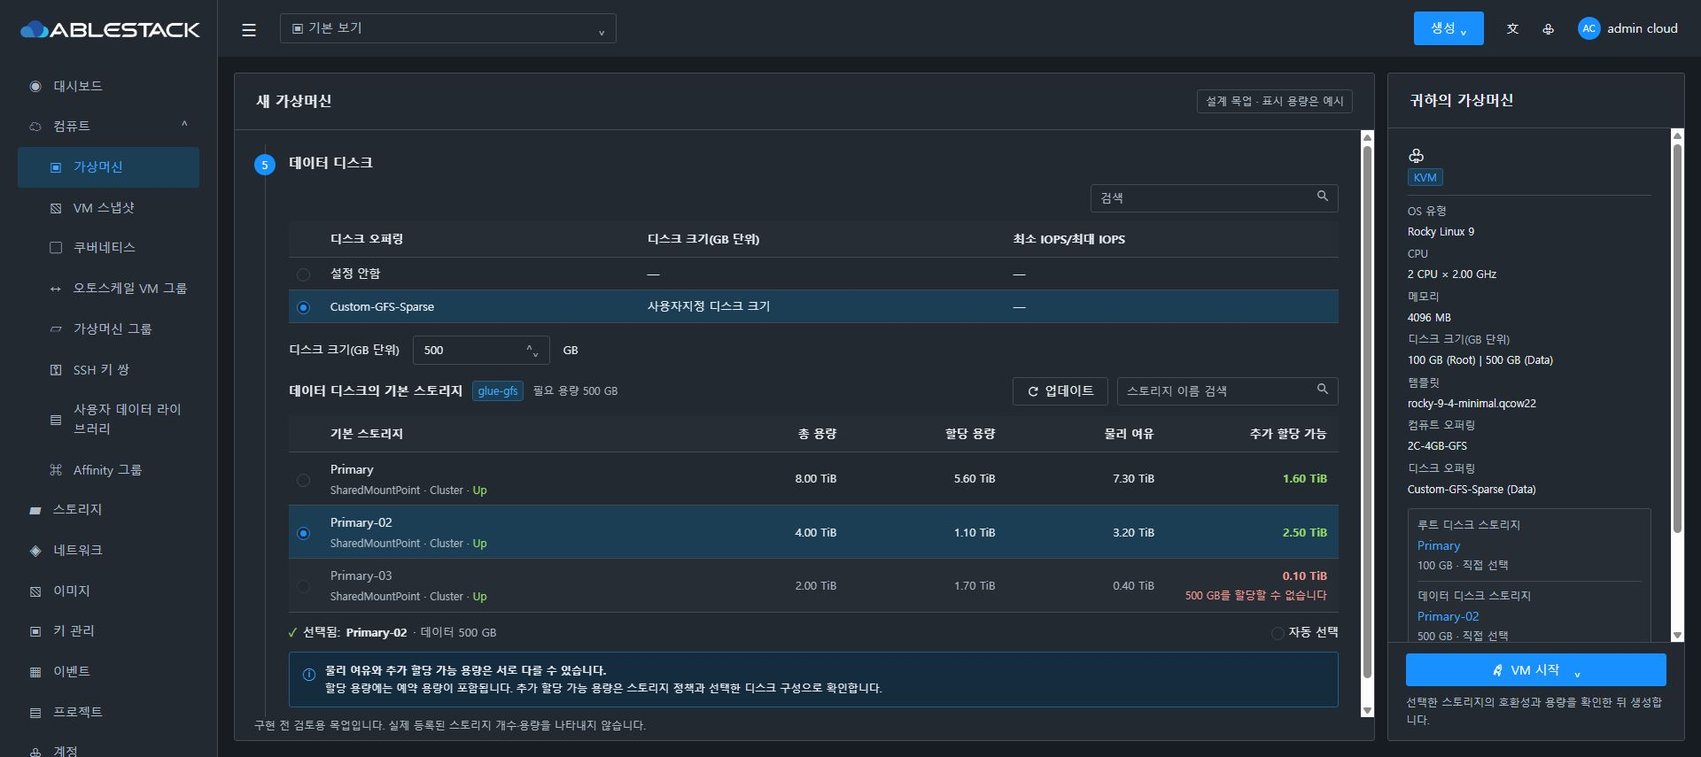
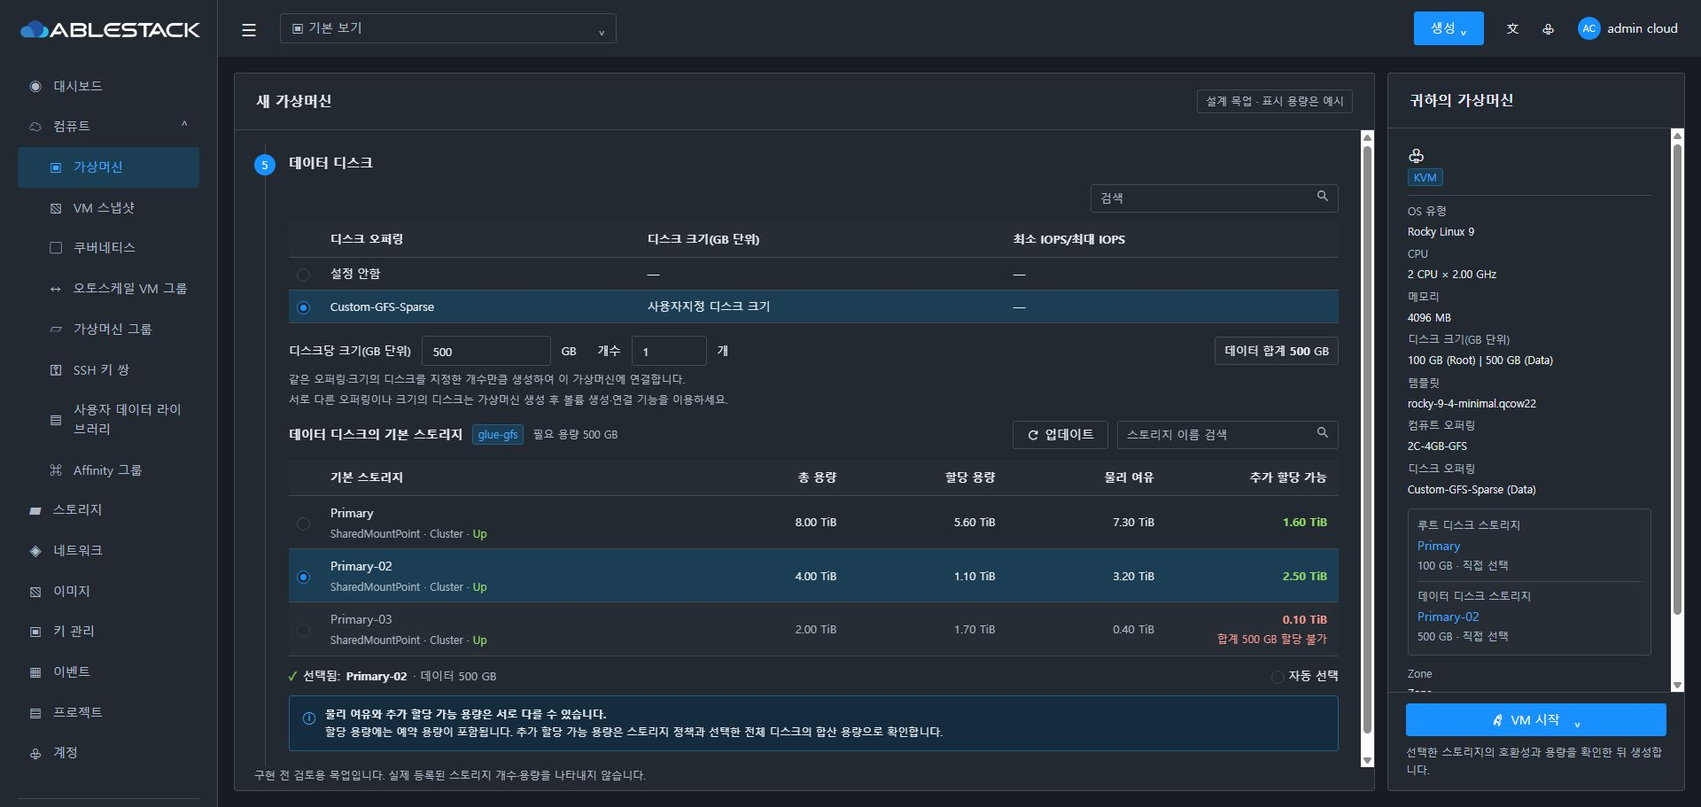
문서: 데이터 디스크 개수와 고정·가변 용량 목업 보완

diff --git a/docs/design/vm-create-storage-selection-20261002/mockup.html b/docs/design/vm-create-storage-selection-20261002/mockup.html
@@ -76,6 +76,24 @@ body.rootmanual .override-manual{display:block}
 body.rootmanual .override-default{display:none}
 body.rootmanual .root-override .switch{background:#1890ff}
 body.rootmanual .root-override .switch:before{left:18px}
+
+.data-batch-controls{gap:12px;flex-wrap:wrap;margin-bottom:6px}
+.data-number{width:146px;height:34px;background:var(--panel);border:1px solid var(--border);border-radius:3px;padding:5px 12px;color:var(--text)}
+.count-number{width:85px}
+.data-batch-controls label[for="data-disk-count"]{margin-left:12px}
+.data-total-badge{margin-left:auto;color:var(--text);background:var(--thead);border:1px solid var(--border);border-radius:3px;padding:5px 10px}
+.batch-help{margin:5px 0 12px}.storage-title .data-count-formula{margin-left:5px}
+.batch-capacity-row.can-fit .availability{color:var(--good)}.batch-capacity-row.can-fit .radio{opacity:1}
+
+.fixed-data-tag{display:none}
+body.fixedoffering .fixed-data-tag{display:inline-block}
+body.fixedoffering #data-disk-size{color:var(--muted);background:var(--thead);cursor:not-allowed}
+body.fixedoffering #data-disk-size::-webkit-inner-spin-button{display:none}
+.fixed-size-help{display:none}body.fixedoffering .fixed-size-help{display:block;margin-top:3px}
+.separate-volume-help{margin:4px 0 12px}.batch-help{margin-bottom:4px}
+body.fixedoffering .data-batch-controls{gap:9px}
+
+body.fixedoffering .pool-table td{padding-top:6px;padding-bottom:6px}
 </style></head><body>
 <svg style="position:absolute;width:0;height:0" aria-hidden="true"><defs>
 <symbol id="reload" viewBox="0 0 16 16"><path d="M13.3 5.7A5.4 5.4 0 1 0 13.2 11M13.4 2.7v3.5h-3.5"/></symbol>
@@ -114,16 +132,22 @@ body.rootmanual .root-override .switch:before{left:18px}
 <div class="offerbar"><div class="search">검색 <svg class="ico"><use href="#search"/></svg></div></div>
 <table><thead><tr><th class="select-col"></th><th>디스크 오퍼링</th><th>디스크 크기(GB 단위)</th><th>최소 IOPS/최대 IOPS</th></tr></thead><tbody>
 <tr><td class="select-col"><span class="radio"></span></td><td>설정 안함</td><td>—</td><td>—</td></tr>
-<tr class="selected"><td class="select-col"><span class="radio checked"></span></td><td>Custom-GFS-Sparse</td><td>사용자지정 디스크 크기</td><td>—</td></tr></tbody></table>
-<div class="sizebox"><span>디스크 크기(GB 단위)</span><span class="number-field">500 <span class="dim">⌃⌄</span></span><span>GB</span></div>
-<div class="storage-title"><strong>데이터 디스크의 기본 스토리지</strong><span class="tag">glue-gfs</span><span class="require">필요 용량 500 GB</span><div class="tools"><button class="plain-button update"><svg class="ico"><use href="#reload"/></svg>업데이트</button><div class="search">스토리지 이름 검색 <svg class="ico"><use href="#search"/></svg></div></div></div>
+<tr class="selected"><td class="select-col"><span class="radio checked"></span></td><td><span class="data-offering-name">Custom-GFS-Sparse</span></td><td><span class="data-offering-size">사용자지정 디스크 크기</span></td><td>—</td></tr></tbody></table>
+<div class="sizebox data-batch-controls">
+<label for="data-disk-size">디스크당 크기(GB 단위)</label><input id="data-disk-size" class="data-number" type="number" min="1" step="1" value="500"><span>GB</span><span class="tag fixed-data-tag">고정 용량</span>
+<label for="data-disk-count">개수</label><input id="data-disk-count" class="data-number count-number" type="number" min="1" step="1" value="1"><span>개</span>
+<span class="data-total-badge">데이터 합계 <strong class="data-total-value">500</strong> GB</span>
+</div>
+<p class="hint batch-help">같은 오퍼링·크기의 디스크를 지정한 개수만큼 생성하여 이 가상머신에 연결합니다.<span class="fixed-size-help"></span></p>
+<p class="hint separate-volume-help">서로 다른 오퍼링이나 크기의 디스크는 가상머신 생성 후 볼륨 생성·연결 기능을 이용하세요.</p>
+<div class="storage-title"><strong>데이터 디스크의 기본 스토리지</strong><span class="tag">glue-gfs</span><span class="require">필요 용량 <span class="data-total-value">500</span> GB<span class="data-count-formula"></span></span><div class="tools"><button class="plain-button update"><svg class="ico"><use href="#reload"/></svg>업데이트</button><div class="search">스토리지 이름 검색 <svg class="ico"><use href="#search"/></svg></div></div></div>
 <table class="pool-table"><thead><tr><th class="select-col"></th><th>기본 스토리지</th><th>총 용량</th><th>할당 용량</th><th>물리 여유</th><th>추가 할당 가능</th></tr></thead><tbody>
 <tr><td class="select-col"><span class="radio"></span></td><td><span class="pool-name">Primary</span><span class="subline">SharedMountPoint · Cluster · <span class="status">Up</span></span></td><td>8.00 TiB</td><td>5.60 TiB</td><td>7.30 TiB</td><td><span class="availability">1.60 TiB</span></td></tr>
 <tr class="selected"><td class="select-col"><span class="radio checked"></span></td><td><span class="pool-name">Primary-02</span><span class="subline">SharedMountPoint · Cluster · <span class="status">Up</span></span></td><td>4.00 TiB</td><td>1.10 TiB</td><td>3.20 TiB</td><td><span class="availability">2.50 TiB</span></td></tr>
-<tr class="disabled-row"><td class="select-col"><span class="radio"></span></td><td><span class="pool-name">Primary-03</span><span class="subline">SharedMountPoint · Cluster · <span class="status">Up</span></span></td><td>2.00 TiB</td><td>1.70 TiB</td><td>0.40 TiB</td><td><span class="availability">0.10 TiB</span><span class="warn">500 GB를 할당할 수 없습니다</span></td></tr>
+<tr class="disabled-row batch-capacity-row"><td class="select-col"><span class="radio"></span></td><td><span class="pool-name">Primary-03</span><span class="subline">SharedMountPoint · Cluster · <span class="status">Up</span></span></td><td>2.00 TiB</td><td>1.70 TiB</td><td>0.40 TiB</td><td><span class="availability">0.10 TiB</span><span class="warn batch-capacity-warning">500 GB를 할당할 수 없습니다</span></td></tr>
 </tbody></table>
-<div class="summary-choice"><span class="check">✓</span> 선택됨: <strong>Primary-02</strong><span class="dim">· 데이터 500 GB</span><span style="margin-left:auto"><span class="radio"></span> 자동 선택</span></div>
-<div class="capacity-help"><span class="sym">ⓘ</span><span><b>물리 여유와 추가 할당 가능 용량은 서로 다를 수 있습니다.</b><br>할당 용량에는 예약 용량이 포함됩니다. 추가 할당 가능 용량은 스토리지 정책과 선택한 디스크 구성으로 확인합니다.</span></div>
+<div class="summary-choice"><span class="check">✓</span> 선택됨: <strong>Primary-02</strong><span class="dim">· 데이터 <span class="data-configuration">500 GB</span></span><span style="margin-left:auto"><span class="radio"></span> 자동 선택</span></div>
+<div class="capacity-help"><span class="sym">ⓘ</span><span><b>물리 여유와 추가 할당 가능 용량은 서로 다를 수 있습니다.</b><br>할당 용량에는 예약 용량이 포함됩니다. 추가 할당 가능 용량은 스토리지 정책과 선택한 전체 디스크의 합산 용량으로 확인합니다.</span></div>
 </section>
 <div class="collapsed"><span class="completed">6</span><strong>네트워크</strong><span class="short-val">ADMIN-L2-Network</span></div><div class="collapsed"><span class="completed">7</span><strong>SSH 키 쌍</strong><span class="short-val">설정 안함</span></div><div class="collapsed"><span class="completed">8</span><strong>확장 모드</strong></div><div class="collapsed"><span class="completed">9</span><strong>상세</strong><span class="short-val">VM 1개 · 생성 후 시작</span></div>
 </div>
@@ -136,8 +160,8 @@ body.rootmanual .root-override .switch:before{left:18px}
 </div><div class="capacity-help"><span class="sym">ⓘ</span><span>최종 생성 시 서버에서 선택한 UUID·오퍼링·배포 인프라·전체 디스크의 용량을 다시 검증합니다. 지정한 스토리지에 생성할 수 없으면 변경되지 않은 선택을 유지하고 원인을 표시합니다.</span></div></div>
 <div class="footer-note">구현 전 검토용 목업입니다. 실제 등록된 스토리지 개수·용량을 나타내지 않습니다.</div>
 </main><aside class="panel summary normal-block"><div class="panel-title">귀하의 가상머신</div><div class="summary-inner"><div class="os-icon">♧</div><span class="tag">KVM</span><hr>
-<div class="line"><span class="label">OS 유형</span><span class="val">Rocky Linux 9</span></div><div class="line"><span class="label">CPU</span><span class="val">2 CPU × 2.00 GHz</span></div><div class="line"><span class="label">메모리</span><span class="val">4096 MB</span></div><div class="line"><span class="label">디스크 크기(GB 단위)</span><span class="val"><span class="root-size-value">100</span> GB (Root) | 500 GB (Data)</span></div><div class="line"><span class="label">템플릿</span><span class="val">rocky-9-4-minimal.qcow22</span></div><div class="line"><span class="label">컴퓨트 오퍼링</span><span class="val">2C-4GB-GFS</span></div><div class="line"><span class="label">디스크 오퍼링</span><span class="val">Custom-GFS-Sparse (Data)</span></div>
-<div class="storage-box"><div class="entry"><span class="label">루트 디스크 스토리지</span><span class="name">Primary</span><span class="desc"><span class="root-size-value">100</span> GB · 직접 선택</span></div><div class="entry"><span class="label">데이터 디스크 스토리지</span><span class="name">Primary-02</span><span class="desc">500 GB · 직접 선택</span></div></div>
+<div class="line"><span class="label">OS 유형</span><span class="val">Rocky Linux 9</span></div><div class="line"><span class="label">CPU</span><span class="val">2 CPU × 2.00 GHz</span></div><div class="line"><span class="label">메모리</span><span class="val">4096 MB</span></div><div class="line"><span class="label">디스크 크기(GB 단위)</span><span class="val"><span class="root-size-value">100</span> GB (Root) | <span class="data-summary">500 GB (Data)</span></span></div><div class="line"><span class="label">템플릿</span><span class="val">rocky-9-4-minimal.qcow22</span></div><div class="line"><span class="label">컴퓨트 오퍼링</span><span class="val">2C-4GB-GFS</span></div><div class="line"><span class="label">디스크 오퍼링</span><span class="val"><span class="data-offering-name">Custom-GFS-Sparse</span> (Data)</span></div>
+<div class="storage-box"><div class="entry"><span class="label">루트 디스크 스토리지</span><span class="name">Primary</span><span class="desc"><span class="root-size-value">100</span> GB · 직접 선택</span></div><div class="entry"><span class="label">데이터 디스크 스토리지</span><span class="name">Primary-02</span><span class="desc"><span class="data-configuration">500 GB</span> · 직접 선택</span></div></div>
 <div class="line"><span class="label">Zone</span><span class="val">Zone</span></div><div class="line"><span class="label">부팅 유형 / 부팅 모드</span><span class="val">BIOS / LEGACY</span></div>
 </div><div class="summary-actions"><button class="blue-button start-button"><svg class="ico"><use href="#rocket"/></svg>VM 시작<span style="margin-left:8px">⌄</span></button><p class="summary-note">선택한 스토리지의 호환성과 용량을 확인한 뒤 생성합니다.</p>
 </div></aside></div></div></div>
@@ -147,4 +171,35 @@ const q=new URLSearchParams(location.search);const dark=q.get('theme')==='dark';
 const manualRoot=q.get('override')==='on';
 document.body.classList.toggle('rootmanual',manualRoot);
 document.querySelectorAll('.root-size-value').forEach(el=>el.textContent=manualRoot?'500':'100');
+
+const diskSizeInput=document.getElementById('data-disk-size');
+const diskCountInput=document.getElementById('data-disk-count');
+const batchExample=q.get('batch')==='on';
+const fixedOffering=q.get('offering')==='fixed';
+document.body.classList.toggle('fixedoffering',fixedOffering);
+diskSizeInput.value=fixedOffering?'200':batchExample?'100':'500';diskCountInput.value=fixedOffering?'4':batchExample?'10':'1';
+diskSizeInput.disabled=fixedOffering;
+document.querySelectorAll('.data-offering-name').forEach(el=>el.textContent=fixedOffering?'GFS-200GB-Fixed (예시)':'Custom-GFS-Sparse');
+document.querySelectorAll('.data-offering-size').forEach(el=>el.textContent=fixedOffering?'200 GB (고정)':'사용자지정 디스크 크기');
+document.querySelectorAll('.fixed-size-help').forEach(el=>el.textContent='용량은 오퍼링에 설정된 값입니다. 다른 용량이 필요하면 디스크 오퍼링을 변경하세요.');
+function updateDataDiskExample(){
+ const size=Number(diskSizeInput.value),count=Number(diskCountInput.value);
+ const valid=Number.isSafeInteger(size)&&size>0&&Number.isSafeInteger(count)&&count>0&&Number.isSafeInteger(size*count);
+ const fmt=n=>n.toLocaleString('en-US');
+ const total=valid?size*count:null;
+ const configuration=valid?(count>1?fmt(size)+' GB × '+fmt(count)+'개 · 합계 '+fmt(total)+' GB':fmt(size)+' GB'):'크기와 개수를 확인하세요';
+ document.querySelectorAll('.data-total-value').forEach(el=>el.textContent=valid?fmt(total):'—');
+ document.querySelectorAll('.data-configuration').forEach(el=>el.textContent=configuration);
+ document.querySelectorAll('.data-count-formula').forEach(el=>el.textContent=valid&&count>1?'('+fmt(size)+' GB × '+fmt(count)+'개)':'');
+ document.querySelectorAll('.data-summary').forEach(el=>el.textContent=valid?(count>1?fmt(size)+' GB × '+fmt(count)+'개 (Data) · 합계 '+fmt(total)+' GB':fmt(size)+' GB (Data)'):'크기와 개수를 확인하세요');
+ const blocked=!valid||total>102;
+ const capacityRow=document.querySelector('.batch-capacity-row');
+ capacityRow.classList.toggle('disabled-row',blocked);capacityRow.classList.toggle('can-fit',!blocked);
+ const warning=document.querySelector('.batch-capacity-warning');
+ warning.style.display=blocked?'block':'none';
+ warning.textContent=valid?'합계 '+fmt(total)+' GB 할당 불가':'크기와 개수를 확인하세요';
+}
+diskSizeInput.addEventListener('input',updateDataDiskExample);
+diskCountInput.addEventListener('input',updateDataDiskExample);
+updateDataDiskExample();
 </script></body></html>

diff --git a/docs/design/vm-create-storage-selection-20261002/README.md b/docs/design/vm-create-storage-selection-20261002/README.md
@@ -46,7 +46,7 @@ under the License.
 ## 화면 개선안
 
 1. **컴퓨트 오퍼링 → 루트 디스크의 기본 스토리지 → 루트 디스크 오퍼링 무시·별도 용량 입력** 순서로 배치한다. 먼저 기본 용량을 기준으로 스토리지를 선택한다. 다른 용량을 원하는 경우에만 아래의 무시 옵션을 켜고 루트 크기를 입력한다. 무시 옵션이 꺼져 있으면 오퍼링 기본 용량을 사용하고 크기 입력을 숨긴다.
-2. 데이터 디스크 오퍼링과 크기 아래에 **데이터 디스크의 기본 스토리지**를 배치한다. 데이터 없음이면 숨기고, 여러 데이터 디스크는 각 디스크에서 선택한다.
+2. 데이터 오퍼링 아래에 **디스크당 크기·개수·합계 용량**을 배치하고, 그 아래에 **데이터 디스크의 기본 스토리지**를 표시한다. 같은 오퍼링·크기·선택 스토리지의 데이터 디스크를 여러 개 생성해 연결한다. 기본 개수는 1이며 데이터 없음이면 숨긴다. 서로 다른 오퍼링/크기의 디스크를 새로 추가하려면 VM 생성 후 기존 볼륨 생성·연결 기능을 이용하라는 안내를 표시한다. 이 기능에 서로 다른 구성의 디스크 묶음 편집기를 추가하지 않는다. 기존 자식 템플릿 디스크 경로는 별도 계약을 유지한다.
 3. 기존 표·라디오 선택과 상단 도구 모음을 사용한다. **업데이트 아이콘 + 업데이트**, 이름 검색을 제공한다. 버튼 모양과 주 액션인 우측 파란 VM 시작 버튼을 유지한다.
 4. 우측 VM 요약에 루트/데이터별 스토리지 이름, 크기, 직접/자동 선택 여부를 표시한다. 요약이 길면 내용 영역을 스크롤하고 생성 버튼을 같은 요약 하단에 유지한다.
 5. 기존 자동 배치를 기본값으로 보존한다. 직접 선택한 풀은 최초 생성/배치의 필수 조건이며 불가능하면 이유를 표시한다.
@@ -60,6 +60,22 @@ under the License.
 4. 입력한 루트 용량을 필요 용량·우측 요약·생성 요청에 반영하고 선택한 스토리지의 용량/호환성을 다시 검증한다. 여전히 유효하면 선택을 유지하며, 불가능하면 이유와 재선택 요구를 표시한다. 다른 스토리지로 자동 대체하지 않는다.
 
 오퍼링 무시는 스토리지 선택을 초기화하는 동작이 아니다. 기본 용량을 따르지 않는 수동 크기 입력이며, 기존 템플릿 최소 크기·오퍼링 강제 정책 및 서버 허용 범위 등 배포 검증은 유지한다. 무시를 다시 끄면 기본 용량으로 복원한 뒤 같은 규칙으로 검증한다. 유효 루트 오퍼링/태그가 바뀌는 기존 경로에서도 선택한 풀의 유효성을 재평가한다.
+
+### 동일 오퍼링·크기의 데이터 디스크 여러 개 추가
+
+100 GB 디스크 10개는 기능 설명용 예시이며 고정값이나 상한이 아니다. 고정 오퍼링 목업의 200 GB × 4개 역시 예시이며 등록된 오퍼링의 실제 용량과 사용자가 정한 개수를 사용한다. 사용자 지정(가변) 오퍼링은 디스크당 크기 S를 허용 범위 내에서 입력하고 개수 N을 입력한다. 고정 크기 오퍼링은 제공하는 크기 S를 읽기 전용 필드와 고정 용량 표시로 보여주고 개수 N만 입력한다. 오퍼링을 변경하면 고정/가변 입력 상태와 크기·합계를 갱신한다. 개수 기본값은 1, 허용 범위는 양의 정수와 해당 VM/하이퍼바이저의 남은 연결 한도·계정 한도다.
+
+서로 다른 오퍼링/크기로 새 디스크를 여러 개 추가하는 흐름은 VM 생성 이후 기존 볼륨 생성·연결 기능으로 안내한다. 안내는 데이터 디스크 입력 아래에 제품 문구로 표시한다. 기존 자식 템플릿 디스크의 고유 오퍼링 선택은 보존한다.
+
+표의 필요 용량과 우측 요약에는 S × N 및 데이터 합계를 표시한다. 같은 풀에 루트도 생성하면 루트 용량까지 합산하고, VM 여러 대를 생성하는 경우 VM 개수도 곱한다. 볼륨 개수 쿼터, 할당/예약 용량, 합산 IOPS, KMS·오퍼링 권한도 검사한다. 개수/크기 변경 후 유효한 스토리지 선택을 유지하고 부족하면 재선택을 안내한다.
+
+**새로운 다중 생성 API를 만들지 않는다.** 일반 템플릿 배포는 기존 deployVirtualMachine의 datadisksdetails[0..N-1]에 동일 오퍼링·크기·IOPS/KMS를 펼쳐 한 요청으로 전달한다. 각 디스크는 고유한 deviceid를 갖고 ROOT 0, CD-ROM 3, 기존 사용 ID를 제외한다. 기존 단일 diskofferingid/size와 혼합하지 않는다. 스토리지 지정 보강은 기존 API/배치 경로의 선택 UUID 전달 개선이며 별도 일괄 생성 명령 신설과 구분한다.
+
+ISO 루트/자식 템플릿 디스크 등 기존 계약과 한 요청에 조합할 수 없는 경로는 계약을 먼저 확인한다. 필요할 경우 기존 createVolume → attachVolume을 작업 완료 확인과 함께 반복하고, 모든 디스크 연결 후 기존 startVirtualMachine을 실행하는 방식으로 구성한다. 기존 createVolume.storageid는 관리자 전용이며 일반 사용자 권한을 우회하지 않는다. 경로별 권한/스토리지 지정 지원 범위를 구현 전 확정한다.
+
+반복 경로는 원자적 성공으로 취급하지 않는다. VM/볼륨/비동기 작업 ID와 생성·연결 결과를 개별 추적하고 부분 실패 시 완료/실패/대기 개수를 표시한다. 재시도는 실패한 항목만 처리하여 중복 생성·연결을 방지한다. 사용자가 삭제를 선택하기 전 완료된 디스크를 임의 삭제하거나, 일부 연결을 전체 성공으로 보고하지 않는다. 생성만 하기 모드면 시작하지 않는다.
+
+근거: [기존 다중 디스크 생성 인자](https://github.com/ablecloud-team/ablestack-cloud/blob/f862c21f167d05641c75809d1c64659dcf24c20b/api/src/main/java/org/apache/cloudstack/api/command/user/vm/BaseDeployVMCmd.java#L142), [디스크별 크기·deviceid 파서](https://github.com/ablecloud-team/ablestack-cloud/blob/f862c21f167d05641c75809d1c64659dcf24c20b/api/src/main/java/org/apache/cloudstack/api/command/user/vm/BaseDeployVMCmd.java#L589), [기존 생성/연결 API의 풀·권한](https://github.com/ablecloud-team/ablestack-cloud/blob/f862c21f167d05641c75809d1c64659dcf24c20b/api/src/main/java/org/apache/cloudstack/api/command/user/volume/CreateVolumeCmd.java#L121), [하이퍼바이저별 연결 한도 및 예약 ID 검증](https://github.com/ablecloud-team/ablestack-cloud/blob/f862c21f167d05641c75809d1c64659dcf24c20b/server/src/main/java/com/cloud/storage/VolumeApiServiceImpl.java#L5674).
 
 ### 용량 표시
 
@@ -101,6 +117,7 @@ under the License.
 
 ## 단계별 구현 및 완료 기준
 
+- [ ] 기존 deployVirtualMachine.datadisksdetails 및 createVolume/attachVolume 재사용 경로 확정. 별도 다중 생성 API 신설 없이 구현.
 - [ ] 후보/용량/디스크별 UUID API 계약과 권한 확정.
 - [ ] 서버 후보 조회와 최초 배치 강제 조건 구현, WSL ext4에서 관련 Maven 변경 모듈 빌드.
 - [ ] 기존 VM 생성 UI의 표/선택/요약/조회 상태 구현 및 UI 빌드.
@@ -109,6 +126,7 @@ under the License.
 - [ ] 태그 불일치, 다른 클러스터/로컬 조합, 용량 부족, 권한 위반, 점검/삭제 풀, 용량 경쟁, 동일 풀 합산 초과 거절 및 무통보 대체 배치 금지 검증.
 - [ ] 자동 선택, 템플릿/ISO, 루트 오퍼링 무시, 데이터 없음/여러 개, KMS, 사용자 지정 크기/IOPS, VM 여러 대, 생성만 하기→최초 시작 회귀 검증.
 - [ ] 컴퓨트 오퍼링→기본 스토리지→오퍼링 무시 순서, 무시 켜기/끄기와 수동 루트 용량 반영, 유효 스토리지 선택 유지 및 부족 시 재선택 안내 검증.
+- [ ] 사용자 지정 크기·고정 크기 오퍼링, 개수 1/여러 개(지원 환경에서 예시 10개), 고정 용량 수정 불가·가변 크기 입력·오퍼링 전환·서로 다른 구성의 사후 볼륨 기능 안내, 연결/쿼터 한도, 합산 용량/IOPS, 예약 deviceid, 부분 실패·재시도 중복 방지 검증. 실제 요청한 개수의 볼륨이 생성·연결되었는지 확인.
 - [ ] 조회 갱신 중 입력/선택 보존, 화면 깜빡임 없음, 선택 불가 사유, 업데이트 아이콘·문구 확인.
 
 전체 Cloud 빌드는 이번 설계 범위가 아니다. 구현 단계도 변경 모듈 빌드를 우선하고 전체 빌드는 별도 요청이 있을 때만 수행한다.
@@ -122,8 +140,10 @@ under the License.
 | 루트 선택 | [이미지](images/root-storage-light.jpg) | [이미지](images/root-storage-dark.jpg) |
 | 루트 별도 용량 입력 | [이미지](images/root-storage-override-light.jpg) | [이미지](images/root-storage-override-dark.jpg) |
 | 데이터 선택/용량 부족 | [이미지](images/data-storage-light.jpg) | [이미지](images/data-storage-dark.jpg) |
+| 동일 크기 여러 개 생성·연결 | [이미지](images/data-storage-multiple-light.jpg) | [이미지](images/data-storage-multiple-dark.jpg) |
+| 고정 오퍼링·개수 입력 | [이미지](images/data-storage-fixed-light.jpg) | [이미지](images/data-storage-fixed-dark.jpg) |
 | 예외 상태 | [이미지](images/states-light.jpg) | [이미지](images/states-dark.jpg) |
 
 현재 화면: [current-ui.jpg](images/current-ui.jpg).
 
-정적 목업: [mockup.html](mockup.html). 로컬 HTTP 서버에서 ?theme=light&part=root, ?theme=light&part=root&override=on, ?theme=dark&part=data, ?theme=dark&view=states로 확인한다. 서버/API 연결이나 VM 생성 동작은 없다.
+정적 목업: [mockup.html](mockup.html). 로컬 HTTP 서버에서 ?theme=light&part=root, ?theme=light&part=root&override=on, ?theme=dark&part=data, ?theme=light&part=data&batch=on, ?theme=dark&part=data&offering=fixed, ?theme=dark&view=states로 확인한다. 서버/API 연결이나 VM 생성 동작은 없다.
